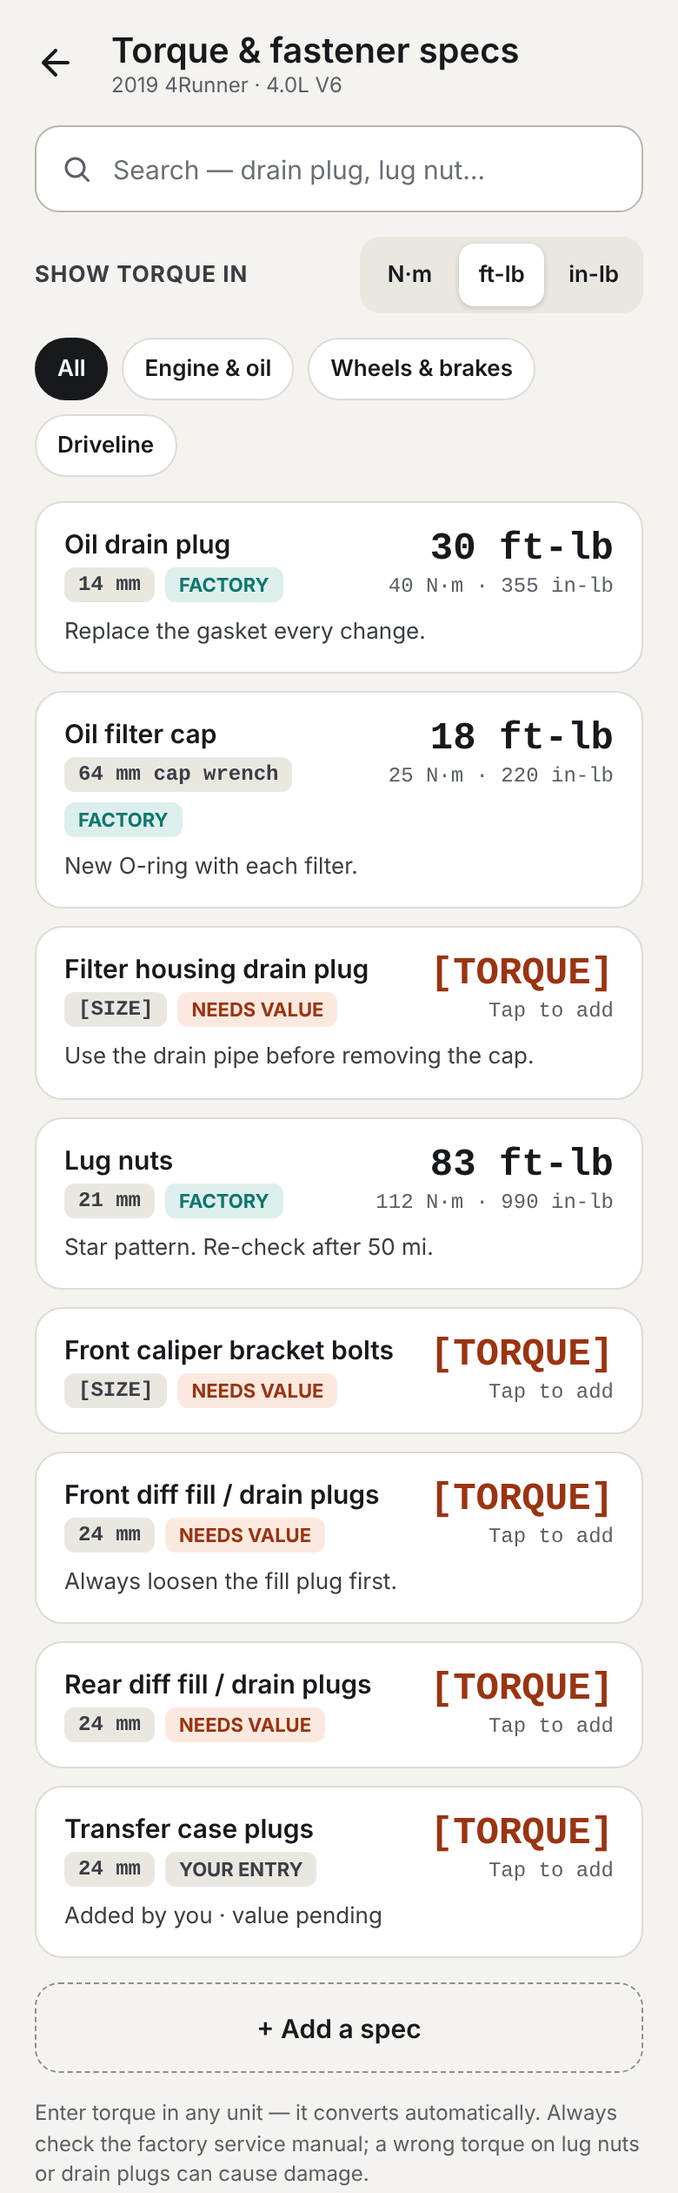
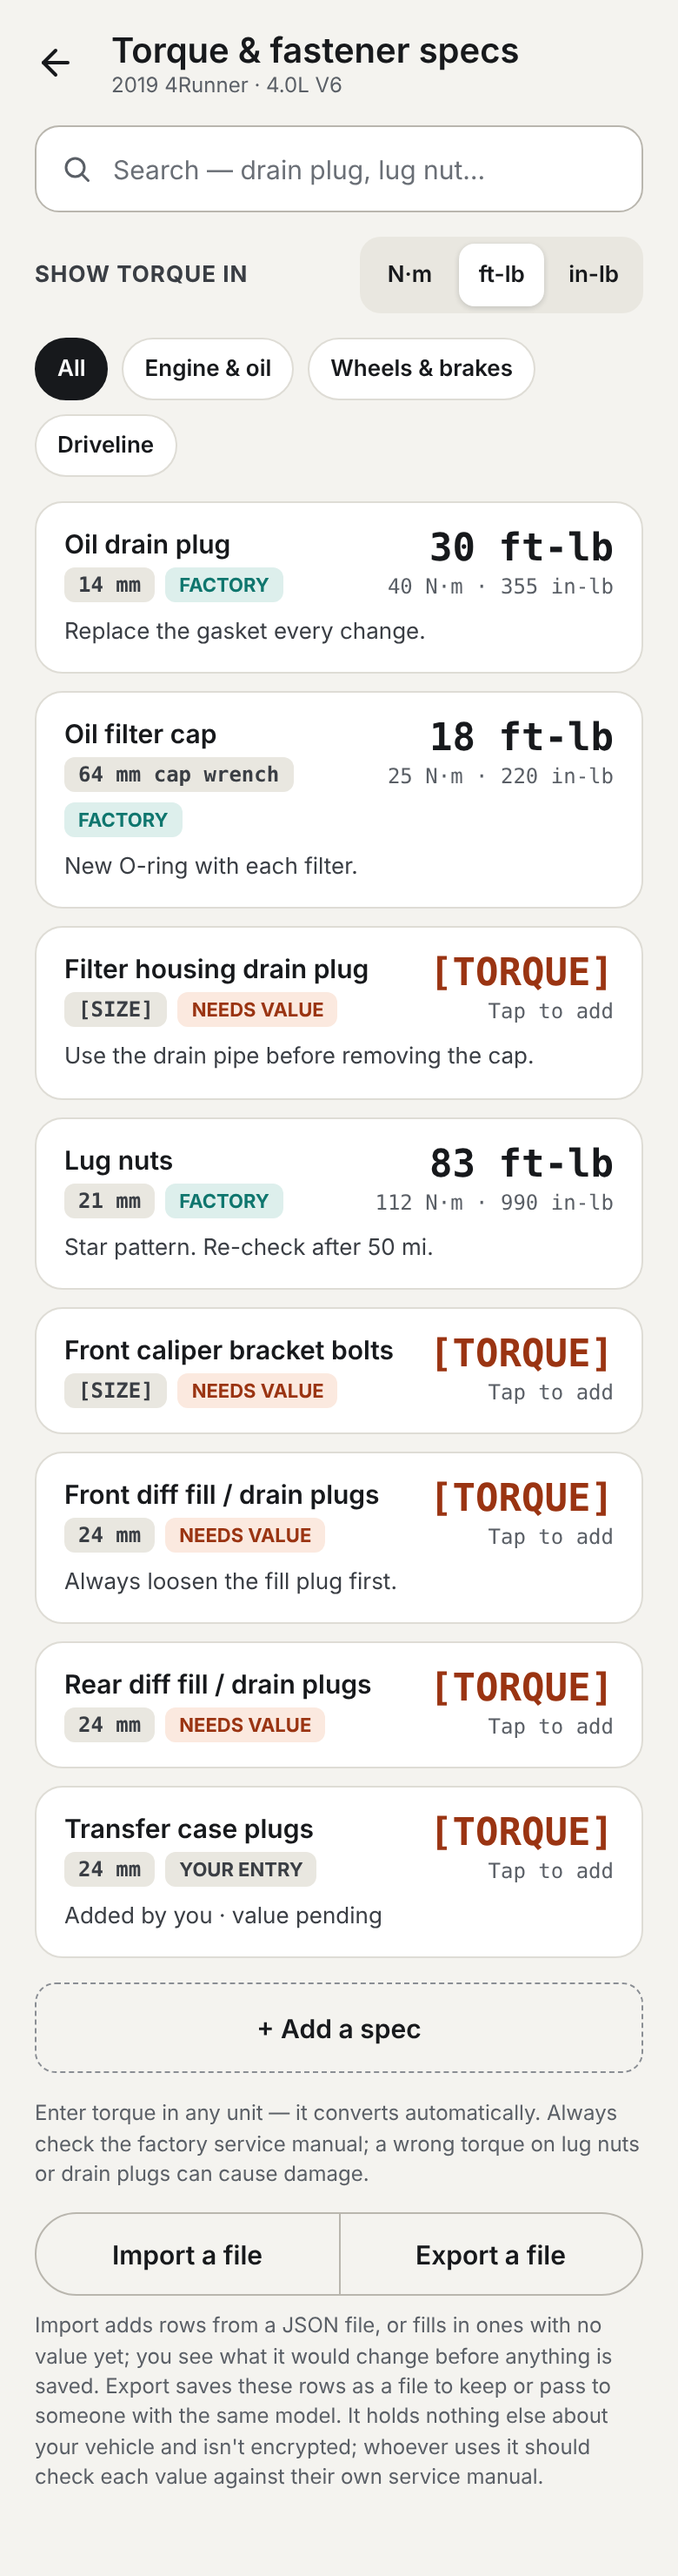
docs(design): Specs render shows the Import / Export group (#604)
Specs.png is a copy of SpecsFiles.png from the last export: SpecsFiles
only imports Specs, so it draws the same board.

diff --git a/design/README.md b/design/README.md
@@ -156,7 +156,7 @@ render yet (the PNGs come with the next export and `design-pull`).
 ## Torque import (#604)
 
 `SpecsFiles` imports `Specs` unchanged, and `ImportTorqueDark` imports `ImportTorque` with
-`theme="dark"`. All four sit on the canvas page "6 · Torque & fastener specs". `Specs.png` predates the Import / Export group and is stale until the next export.
+`theme="dark"`. All four sit on the canvas page "6 · Torque & fastener specs". `Specs.png` is a copy of `SpecsFiles.png`, since the wrapper draws the same board.
 
 | Screen | Render | Source |
 |---|---|---|
